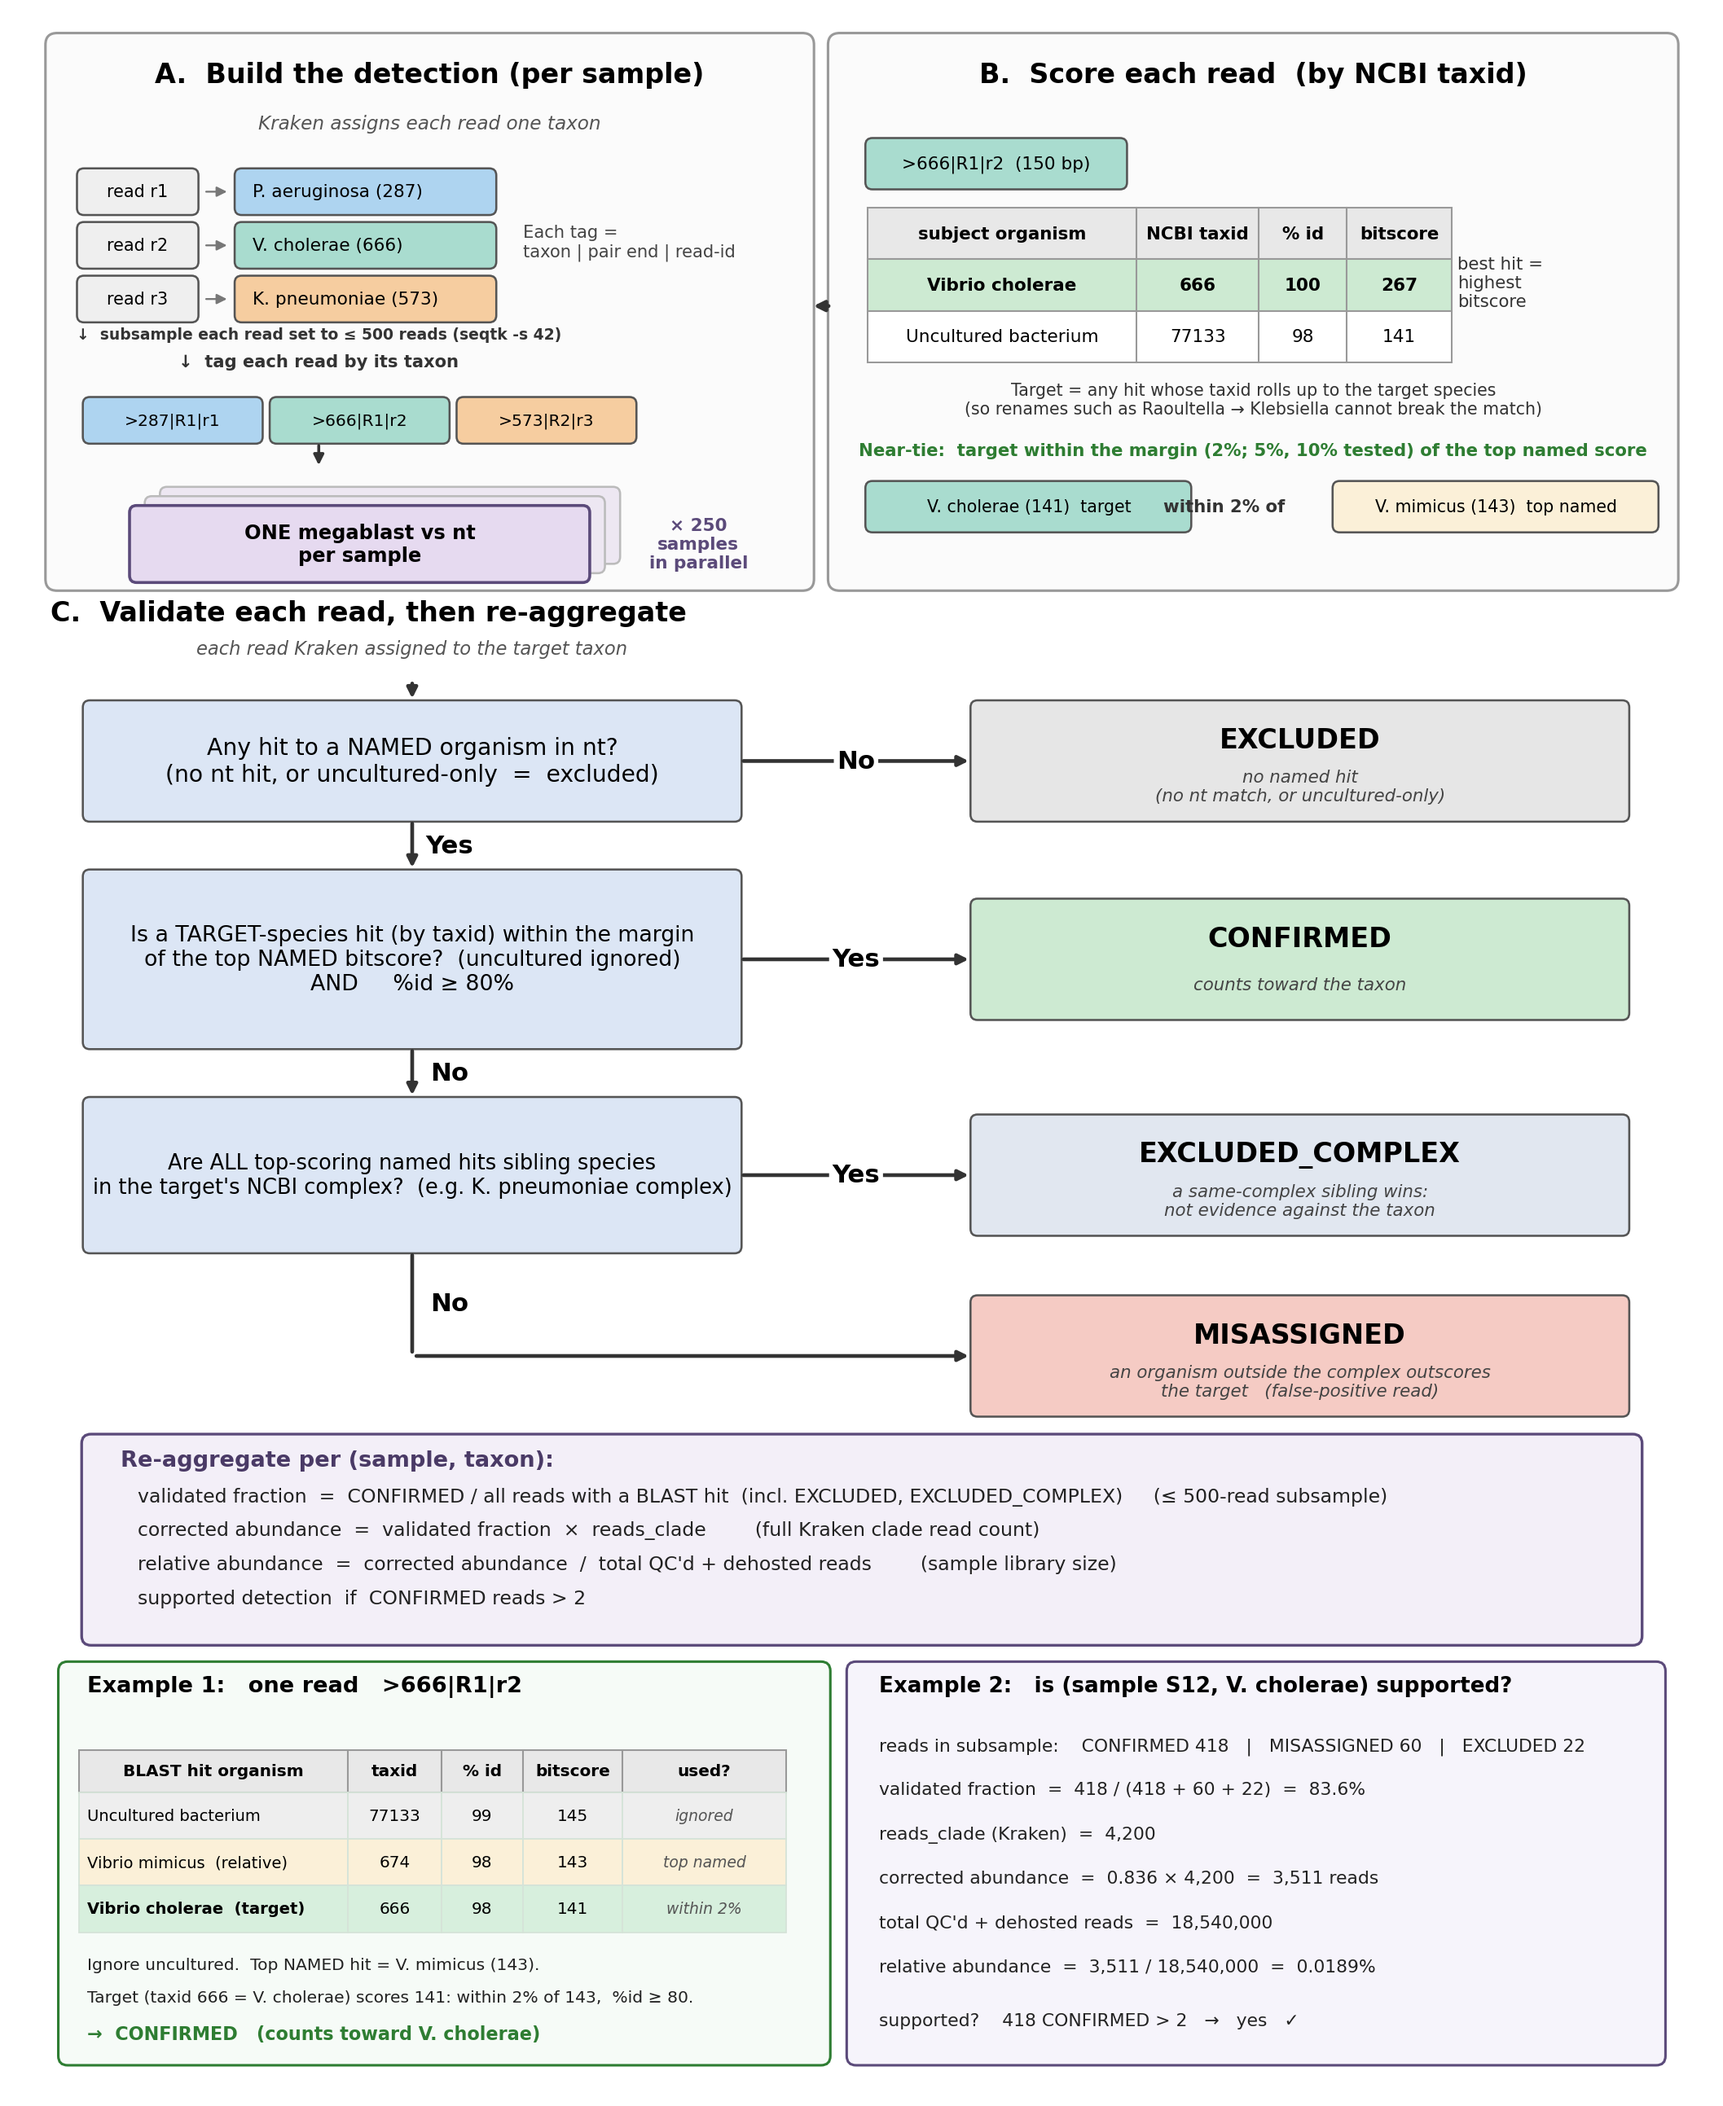
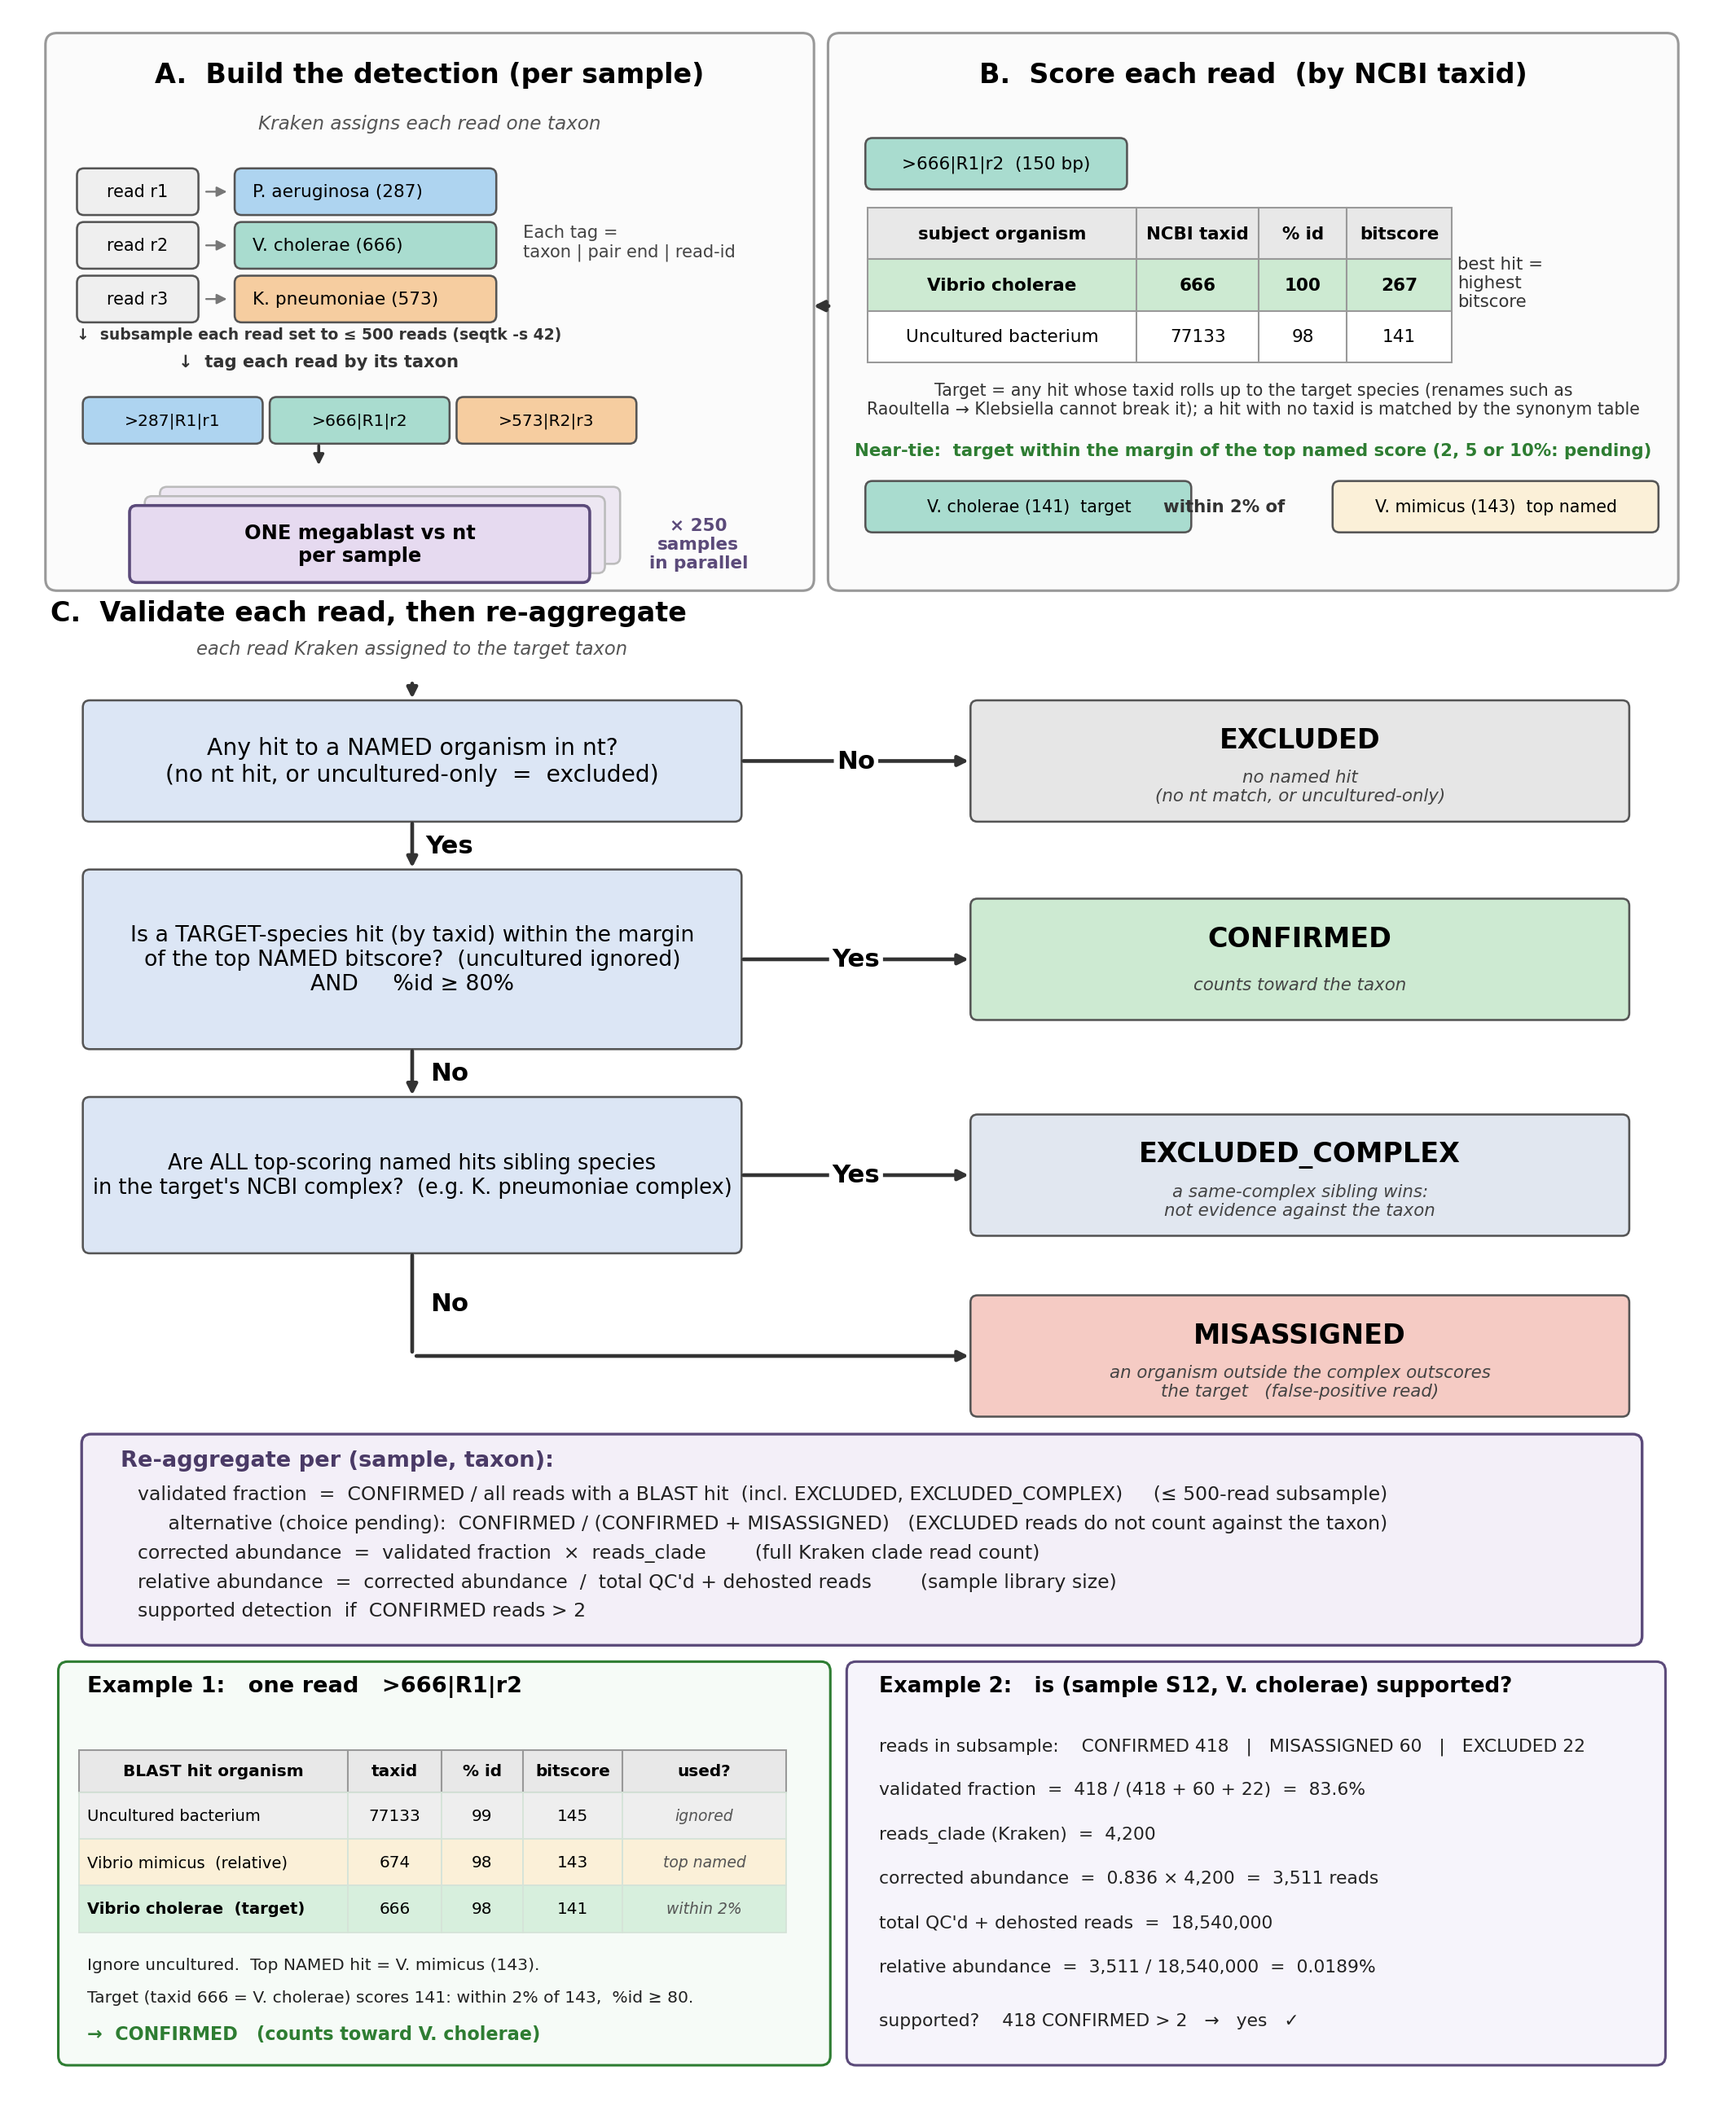
Methods figure: synonym-table fallback, margin and denominator marked as pending

Changed region(s): [[0.0624, 0.7115, 0.6553, 0.7734], [0.4993, 0.1856, 0.9674, 0.2166], [0.6865, 0.7115, 0.7801, 0.7425]]

diff --git a/docs/make_master_methods_figure.py b/docs/make_master_methods_figure.py
@@ -59,9 +59,9 @@ for i,row in enumerate(data):
     for j,val in enumerate(row):
         ax.add_patch(Rectangle((cx,cy-rh),cw[j],rh,facecolor="#CDEAD2" if best else "white",edgecolor="#999",lw=0.8)); ax.text(cx+cw[j]/2,cy-rh/2,val,ha="center",va="center",fontsize=8.4,fontweight="bold" if best else "normal"); cx+=cw[j]
 ax.text(12.35,15.5,"best hit =\nhighest\nbitscore",ha="left",va="center",fontsize=8.3,color="#333")
-ax.text(10.6,14.5,"Target = any hit whose taxid rolls up to the target species\n(so renames such as Raoultella → Klebsiella cannot break the match)",
+ax.text(10.6,14.5,"Target = any hit whose taxid rolls up to the target species (renames such as\nRaoultella → Klebsiella cannot break it); a hit with no taxid is matched by the synonym table",
         ha="center",va="center",fontsize=8.0,color="#333")
-ax.text(10.6,14.02,"Near-tie:  target within the margin (2%; 5%, 10% tested) of the top named score",ha="center",fontsize=8.3,fontweight="bold",color=GRN)
+ax.text(10.6,14.02,"Near-tie:  target within the margin of the top named score (2, 5 or 10%: pending)",ha="center",fontsize=8.3,fontweight="bold",color=GRN)
 rb(7.3,13.78,2.75,0.4,CHO); ax.text(8.68,13.58,"V. cholerae (141)  target",ha="center",va="center",fontsize=8.0)
 ax.text(10.35,13.58,"within 2% of",ha="center",va="center",fontsize=8.3,fontweight="bold",color="#333")
 rb(11.3,13.78,2.75,0.4,"#FBF0D8"); ax.text(12.68,13.58,"V. mimicus (143)  top named",ha="center",va="center",fontsize=8.0)
@@ -95,10 +95,11 @@ arrow(cx,d3-h3/2,cx,mis,"No",lx=0.32,head=False); arrow(cx,mis,LX,mis)
 ax.add_patch(FancyBboxPatch((0.6,3.85),13.3,1.75,boxstyle="round,pad=0.03,rounding_size=0.08",lw=1.3,edgecolor="#5b4a7a",facecolor="#F3EFF8"))
 ax.text(0.9,5.36,"Re-aggregate per (sample, taxon):",fontsize=10.6,fontweight="bold",color="#4a3a66")
 for yy,txt in [
- (5.05,"validated fraction  =  CONFIRMED / all reads with a BLAST hit  (incl. EXCLUDED, EXCLUDED_COMPLEX)     (≤ 500-read subsample)"),
- (4.76,"corrected abundance  =  validated fraction  ×  reads_clade        (full Kraken clade read count)"),
- (4.47,"relative abundance  =  corrected abundance  /  total QC'd + dehosted reads        (sample library size)"),
- (4.18,"supported detection  if  CONFIRMED reads > 2"),
+ (5.07,"validated fraction  =  CONFIRMED / all reads with a BLAST hit  (incl. EXCLUDED, EXCLUDED_COMPLEX)     (≤ 500-read subsample)"),
+ (4.82,"     alternative (choice pending):  CONFIRMED / (CONFIRMED + MISASSIGNED)   (EXCLUDED reads do not count against the taxon)"),
+ (4.57,"corrected abundance  =  validated fraction  ×  reads_clade        (full Kraken clade read count)"),
+ (4.32,"relative abundance  =  corrected abundance  /  total QC'd + dehosted reads        (sample library size)"),
+ (4.07,"supported detection  if  CONFIRMED reads > 2"),
 ]:
     ax.text(1.05,yy,txt,fontsize=9.2,color="#222")
 
